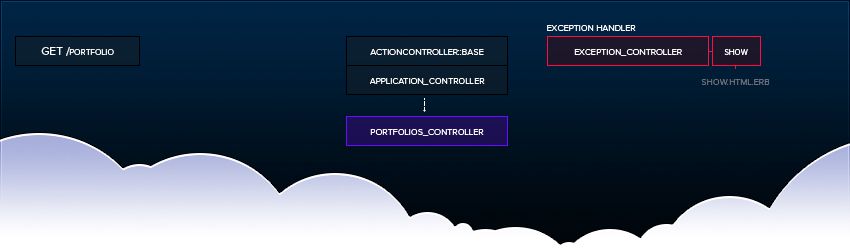
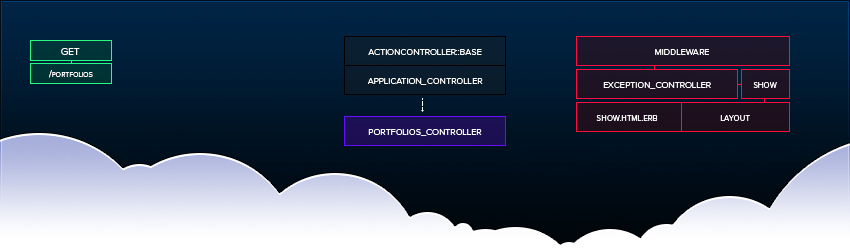
Middleware
Former-commit-id: 38d712b5f70fedea6092d9d673c65be3c43c6c39
Former-commit-id: 4ff76831f30d16d5c258ebe0c63f6068be9258b4

diff --git a/README.md b/README.md
@@ -85,7 +85,7 @@ The power of **`ExceptionHandler`** lies in its capacity to access the [**`Activ
 
 Rails invokes [`config.exceptions_app`](http://guides.rubyonrails.org/configuring.html#rails-general-configuration) whenever an exception is raised.
 
-**ExceptionHandler** injects our `ExceptionsController` into this hook to provide the most efficient response:
+**ExceptionHandler** injects our `ExceptionController` into this hook to provide the most efficient response:
 
 > **`config.exceptions_app`** sets the exceptions application invoked by the **`ShowException`** middleware when an exception happens. Defaults to **`ActionDispatch::PublicExceptions.new(Rails.public_path)`**.
 
@@ -93,7 +93,7 @@ Rails invokes [`config.exceptions_app`](http://guides.rubyonrails.org/configurin
   <img src="readme/exceptions_app.jpg" title="Exceptions App" />
 </p>
 
-As opposed to other exception suites (which use the `routes`), this gives you DIRECT access to the exception through the middleware stack, straight to the [`ExceptionsController`](/app/controllers/exception_handler/exception_controller.rb):
+As opposed to other exception suites (which use the `routes`), this gives you DIRECT access to the exception through the middleware stack, straight to the [`ExceptionController`](/app/controllers/exception_handler/exception_controller.rb):
 
 <p align="center">
   <img src="readme/controller_middleware.jpg" title="ExceptionsController compiles the exception & delivers to the front-end" />
